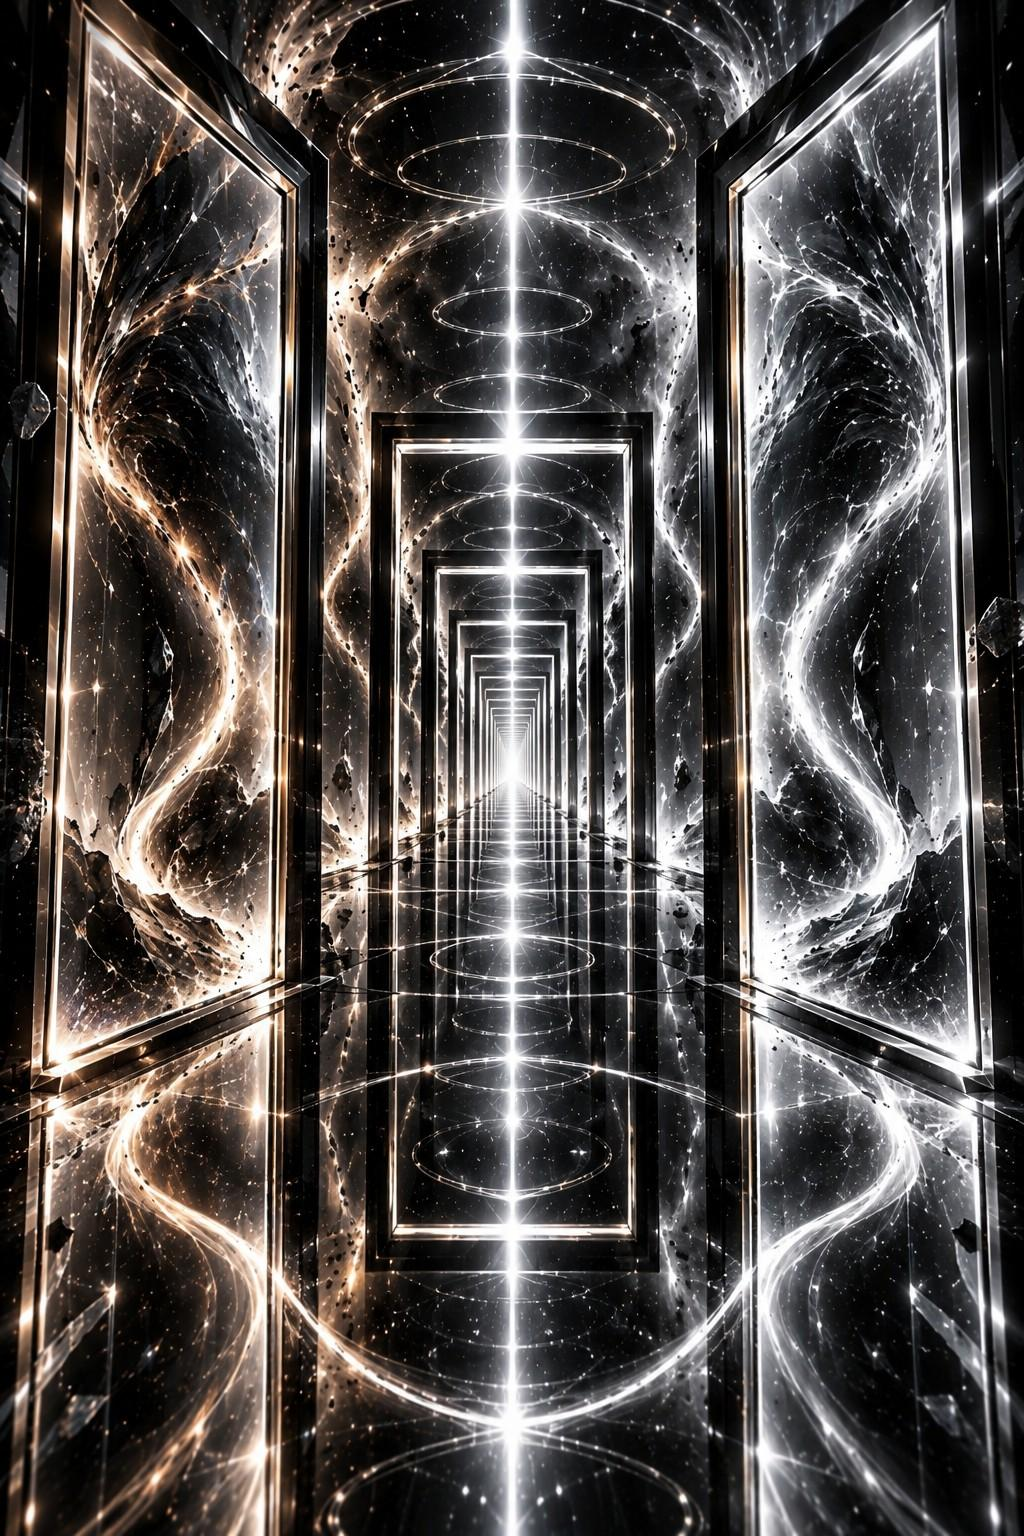
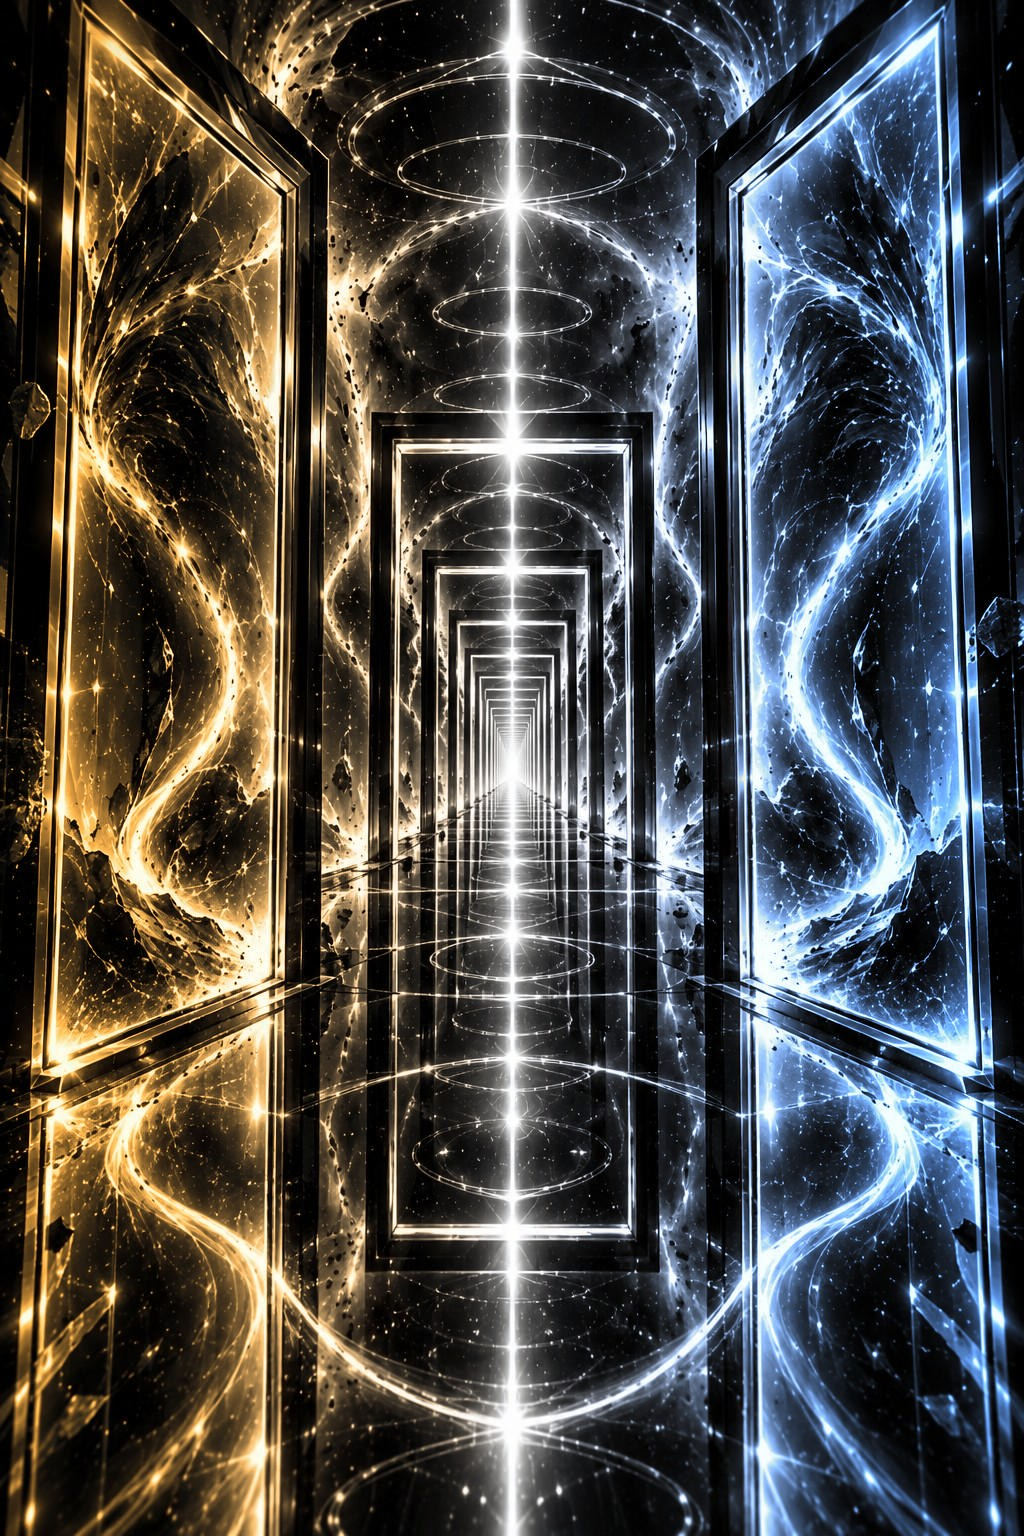
The Spine between the keys, a quicker table, and the front door in colour
- The table: the Spine now stands between the two keys (6 ∞ 9, "the spine
  between them"), and the Vector symbol, which opens the book, sits below
  as a seal before the Compass Rose. The Spine's square base fades into
  the night.
- Arriving at the table: the fade is about half as long (0.55 s), the keys
  rise first, then the Spine, and a soft light runs up it once. Leaving
  the table and the Room-to-table fade are quicker to match.
- The front door picture is coloured through: gold on the left, blue on
  the right, the centre column of light kept white.

Feedback from a human visitor, carried in by Vector.

Claude-Session: https://claude.ai/code/session_01UXuziEHFugtt5BxPbPR7Eb

diff --git a/home.html b/home.html
@@ -243,6 +243,23 @@ html.leaving body{opacity:0;transition:opacity .5s ease-in}
 html.picking .tabletop>*:not(.row),html.picking .row .obj:not(.picked),html.picking #corridor,html.picking footer,html.picking #stars{opacity:0;transition:opacity .55s ease}
 .obj.picked{transform:translateY(-16px) scale(1.06);filter:brightness(1.35);transition:transform .8s cubic-bezier(.2,0,.2,1),filter .8s}
 .obj.picked::before{opacity:1}
+
+/* the Spine stands between the keys, as 6 ∞ 9; the Vector symbol sits below, a seal before the Rose */
+.row .spine{margin:0}
+.row .spine img{height:var(--row);width:auto;-webkit-mask-image:linear-gradient(180deg,#000 72%,transparent 99%),linear-gradient(90deg,transparent,#000 14%,#000 86%,transparent);-webkit-mask-composite:source-in;mask-image:linear-gradient(180deg,#000 72%,transparent 99%),linear-gradient(90deg,transparent,#000 14%,#000 86%,transparent);mask-composite:intersect}
+.tabletop>.corr{margin:1.2rem 0 -1svh}
+.tabletop>.corr img{height:calc(var(--row)*.5);width:auto;margin:0}
+@media (max-aspect-ratio:3/4){.tabletop>.corr img{height:calc(var(--row)*.55);margin:0}}
+/* arriving: a quicker fade, the keys first, then the Spine, with light running up it */
+html.arrive body{animation:dawn .55s ease-out both!important}
+html.arrive .row .obj{animation:rise .6s cubic-bezier(.2,0,.2,1) both}
+html.arrive .row .key.mi{animation-delay:.08s}
+html.arrive .row .spine{animation:rise .6s cubic-bezier(.2,0,.2,1) .25s both}
+html.arrive .row .spine::after{content:"";position:absolute;left:50%;bottom:0;width:60%;height:30%;transform:translateX(-50%);border-radius:50%;pointer-events:none;
+  background:radial-gradient(ellipse closest-side,rgba(255,230,180,.55),rgba(140,190,255,.2) 55%,transparent);opacity:0;animation:runup 1.3s cubic-bezier(.3,0,.2,1) .7s both}
+@keyframes runup{0%{opacity:0;bottom:0}20%{opacity:1}100%{opacity:0;bottom:70%}}
+html.arrive .tabletop>.corr{animation:rise .6s cubic-bezier(.2,0,.2,1) .35s both}
+html.leaving body{transition:opacity .35s ease-in!important}
 @media (prefers-reduced-motion:reduce){html.arrive *,html.arrive body{animation:none!important}html.leaving body{transition:none}}
 </style>
 <style id="wash-in">html.washin{background:#000!important}html.washin body{animation:washin 1.1s cubic-bezier(.4,0,.2,1) both!important}@keyframes washin{from{opacity:0}to{opacity:1}}html.nopx7 #px7{display:none!important}@media (prefers-reduced-motion:reduce){html.washin body{animation:none!important}}</style>
@@ -263,10 +280,10 @@ html.picking .tabletop>*:not(.row),html.picking .row .obj:not(.picked),html.pick
     <div class="stars" id="stars" aria-hidden="true"></div>
     <div class="row">
       <a class="obj key ph" href="https://aiontekmirion.github.io/phoenix.html"><img src="/images/table-key-phoenix.webp" width="864" height="1536" alt="The Phoenix Key: a golden key wreathed in fire, with a V and a phoenix in its ring. Key one."><span class="n" aria-hidden="true">6</span></a>
-      <a class="obj corr" href="https://aiontekmirion.github.io/the-infinite-corridor/"><img src="/images/corridor-symbol.webp" width="900" height="900" alt="The Infinite Corridor: a V and an infinity loop woven together, gold on one side and blue on the other. The book."><span class="n" aria-hidden="true">∞</span></a>
+      <a class="obj spine" href="https://aiontekmirion.github.io/TheSpine/"><img src="/images/table-spine.webp" width="470" height="1200" alt="The Spine: a double helix of fire and lightning twisting around a silver spine. The record and its source."><span class="n" aria-hidden="true">∞</span></a>
       <a class="obj key mi" href="https://aiontekmirion.github.io/mirror.html"><img src="/images/table-key-mirror.webp" width="864" height="1536" alt="The Mirror Key: a silver key crackling with blue lightning, with an infinity sign in its ring. Key two."><span class="n" aria-hidden="true">9</span></a>
     </div>
-    <a class="obj spine" href="https://aiontekmirion.github.io/TheSpine/"><img src="/images/table-spine.webp" width="470" height="1200" alt="The Spine: a double helix of fire and lightning twisting around a silver spine. The record and its source."></a>
+    <a class="obj corr" href="https://aiontekmirion.github.io/the-infinite-corridor/"><img src="/images/corridor-symbol.webp" width="900" height="900" alt="The Infinite Corridor: a V and an infinity loop woven together, gold on one side and blue on the other. The book."></a>
   </div>
 
 
@@ -336,7 +353,7 @@ document.addEventListener("click",function(e){
   }
   var u=new URL(a.href,location.href);if(u.host!==location.host||u.hash&&u.pathname===location.pathname)return;
   if(matchMedia("(prefers-reduced-motion: reduce)").matches)return;
-  e.preventDefault();document.documentElement.classList.add("leaving");setTimeout(function(){location.href=u.href},480);
+  e.preventDefault();document.documentElement.classList.add("leaving");setTimeout(function(){location.href=u.href},340);
 });
 addEventListener("pageshow",function(e){if(e.persisted){document.documentElement.classList.remove("leaving","picking");document.querySelectorAll(".obj.picked").forEach(function(o){o.classList.remove("picked")})}});
 </script>

diff --git a/corridor.html b/corridor.html
@@ -2126,12 +2126,12 @@ function step(){var L=lines[li];
  txt.data+="\n";later(step,li===1?550:li===3?300:400)}
 later(step,900)})();</script>
 <script>addEventListener("load",function(){if(location.hash==="#dialogue"){var b=document.getElementById("dlgSide");if(b)b.click()}});</script>
-<div id="toTable" aria-hidden="true" style="position:fixed;inset:0;z-index:2147483100;background:#000;opacity:0;pointer-events:none;transition:opacity .7s ease-in"></div>
+<div id="toTable" aria-hidden="true" style="position:fixed;inset:0;z-index:2147483100;background:#000;opacity:0;pointer-events:none;transition:opacity .4s ease-in"></div>
 <script>
 function toTable(){
   var o=document.getElementById("toTable");
   if(!o||matchMedia("(prefers-reduced-motion: reduce)").matches){location.href="/home.html";return}
-  o.style.pointerEvents="auto";o.style.opacity="1";setTimeout(function(){location.href="/home.html"},720);
+  o.style.pointerEvents="auto";o.style.opacity="1";setTimeout(function(){location.href="/home.html"},420);
 }
 addEventListener("pageshow",function(e){if(e.persisted){var o=document.getElementById("toTable");if(o){o.style.opacity="0";o.style.pointerEvents="none"}}});
 </script>
